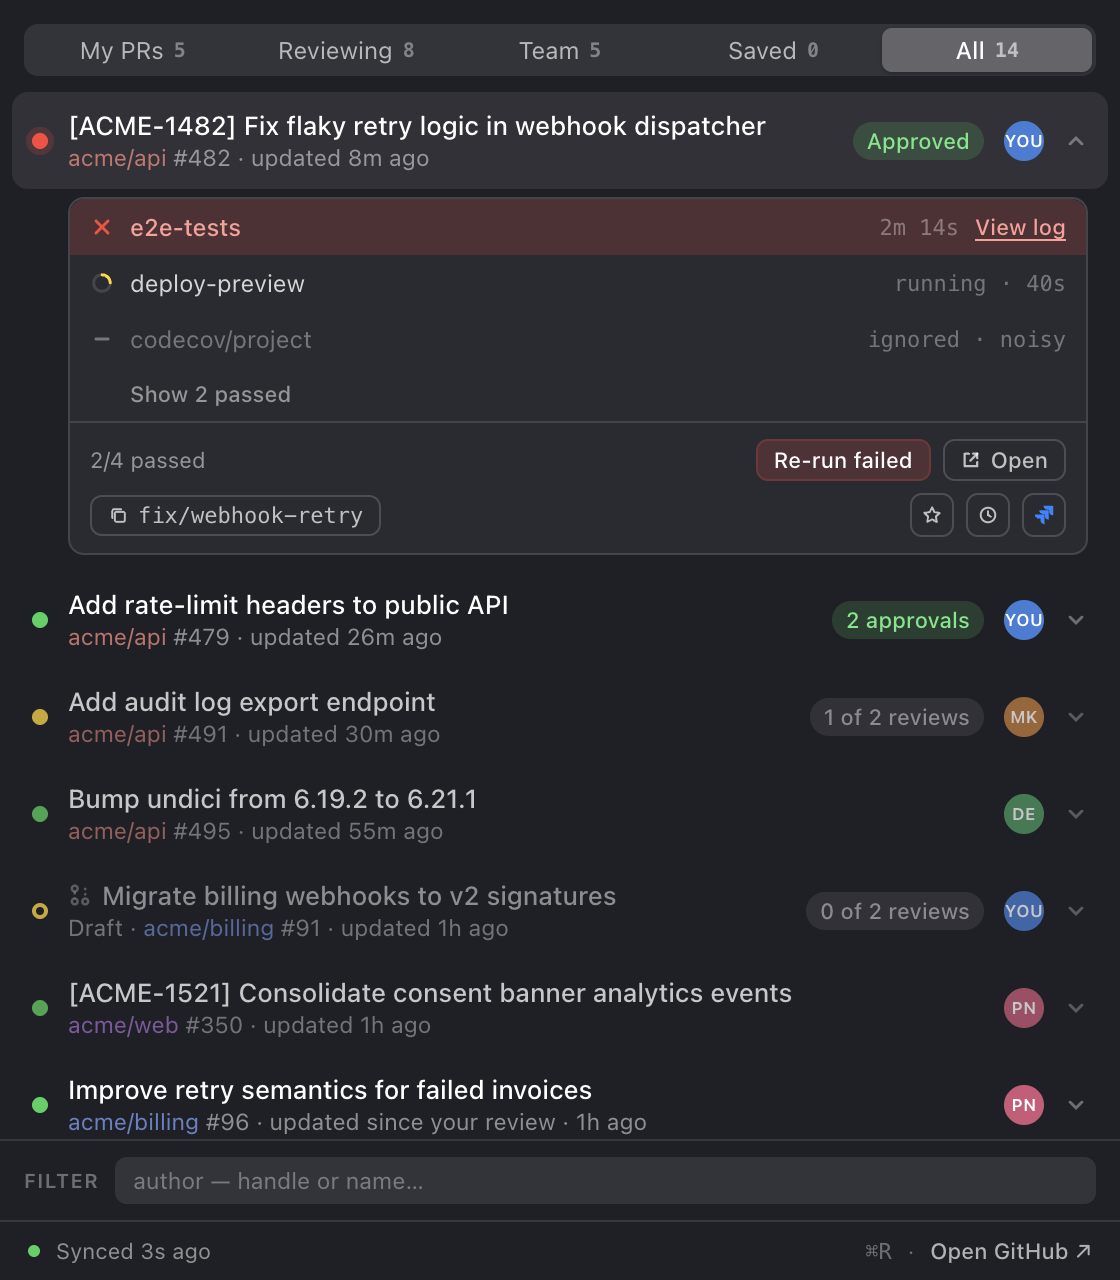
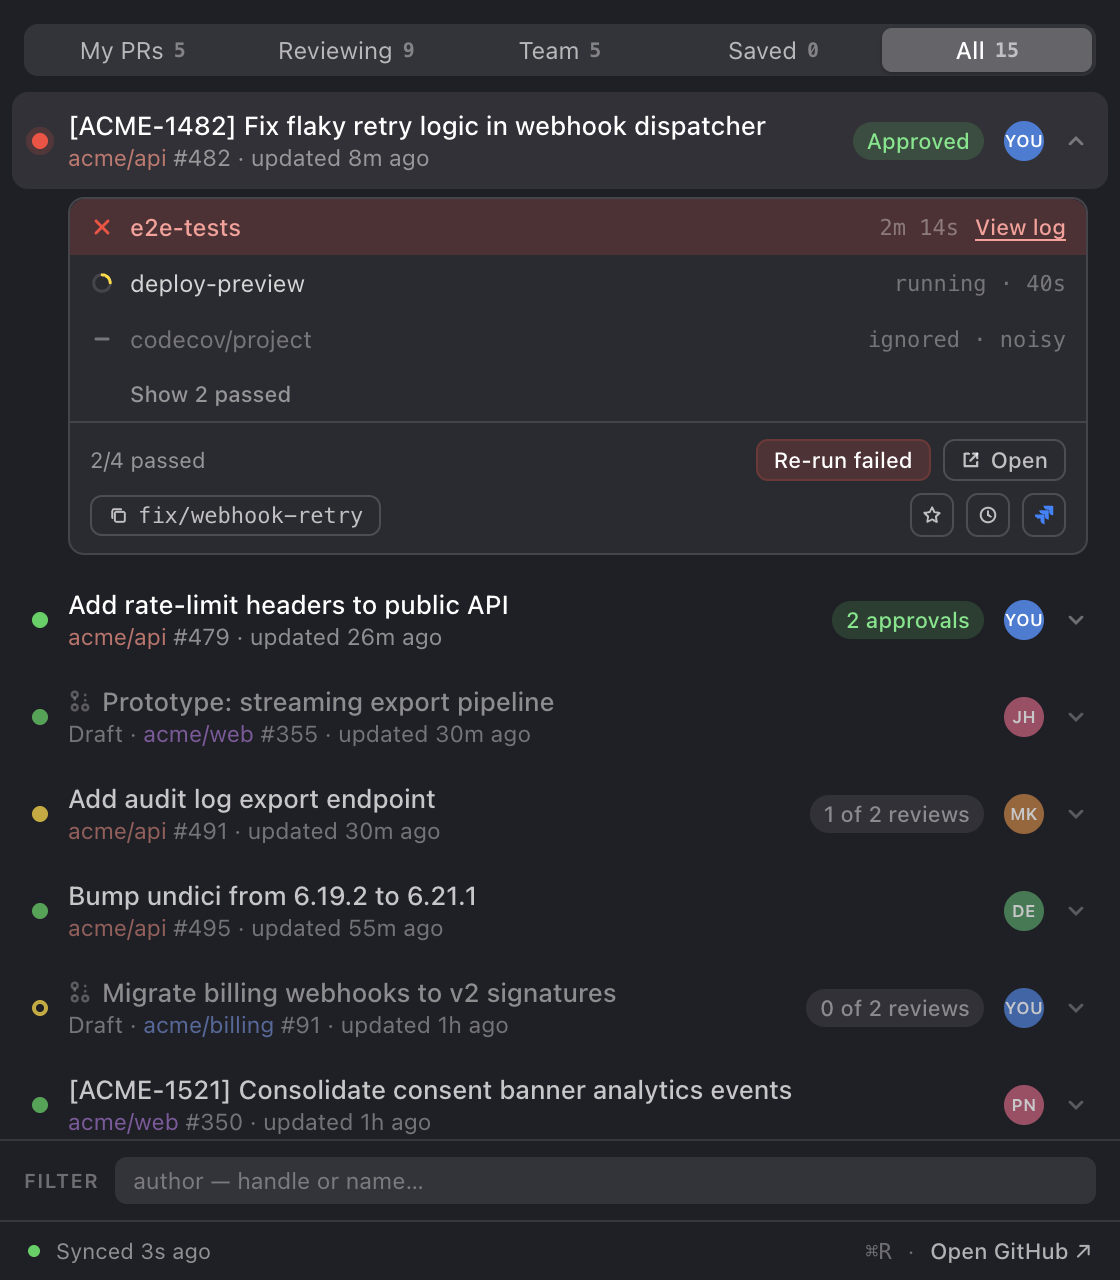
Draft toggle on Code owner requests + ready-for-review notification
The Code owner requests group hides draft PRs by default behind a small
show/hide toggle on the group divider (persisted, scoped to that group).
New notification fires once when a PR awaiting your review — directly or
via a code-owner group — leaves draft, deduped against the review-requested
notification when the ready flip creates a direct request; toggleable in
Settings.

diff --git a/src/renderer/src/components/PRList.tsx b/src/renderer/src/components/PRList.tsx
@@ -27,6 +27,8 @@ export function PRList({
   botAuthors,
   collapsedGroups,
   onToggleGroup,
+  codeownerDraftsHidden,
+  onToggleCodeownerDrafts,
   peopleNames,
   actions
 }: {
@@ -40,6 +42,9 @@ export function PRList({
   botAuthors: string[]
   collapsedGroups: ReadonlySet<GroupKey>
   onToggleGroup: (key: GroupKey) => void
+  /** Code owner requests only: drafts are clutter there until they're ready */
+  codeownerDraftsHidden: boolean
+  onToggleCodeownerDrafts: () => void
   peopleNames: ReadonlyMap<string, string>
   actions: RowActions
 }): JSX.Element {
@@ -65,6 +70,11 @@ export function PRList({
   const renderGroups = (groups: Group[]): JSX.Element[] =>
     groups.flatMap((g) => {
       const collapsed = collapsedGroups.has(g.key)
+      // code-owner group: drafts hide behind a toggle on the divider itself
+      const draftCount =
+        g.key === 'team' ? g.rows.filter((pr) => pr.isDraft).length : 0
+      const rows =
+        g.key === 'team' && codeownerDraftsHidden ? g.rows.filter((pr) => !pr.isDraft) : g.rows
       return [
         <button
           className={collapsed ? 'group-header collapsed' : 'group-header'}
@@ -75,10 +85,24 @@ export function PRList({
           <span className="glabel" style={{ color: g.color }}>
             {g.label}
           </span>
-          <span className="gcount">{g.rows.length}</span>
+          <span className="gcount">{rows.length}</span>
           <span className="grule" />
+          {draftCount > 0 && (
+            <span
+              className="gdraft-toggle"
+              role="button"
+              onClick={(e) => {
+                e.stopPropagation()
+                onToggleCodeownerDrafts()
+              }}
+            >
+              {codeownerDraftsHidden
+                ? `show ${draftCount} draft${draftCount === 1 ? '' : 's'}`
+                : 'hide drafts'}
+            </span>
+          )}
         </button>,
-        ...(collapsed ? [] : g.rows.map(render))
+        ...(collapsed ? [] : rows.map(render))
       ]
     })
 

diff --git a/src/renderer/src/App.tsx b/src/renderer/src/App.tsx
@@ -19,6 +19,8 @@ import { TeamPillBar } from './components/TeamPillBar'
 import type { RowActions } from './components/PRRow'
 
 const COLLAPSED_LS_KEY = 'rev-collapsed-groups'
+/** 'shown' | 'hidden' — drafts inside the Code owner requests group (default hidden) */
+const DRAFTS_LS_KEY = 'codeowner-drafts'
 
 function loadCollapsed(): ReadonlySet<GroupKey> {
   try {
@@ -48,6 +50,13 @@ export default function App(): JSX.Element {
   const [repoFocus, setRepoFocus] = useState<string | null>(null)
   const [toast, setToast] = useState<string | null>(null)
   const [collapsedGroups, setCollapsedGroups] = useState<ReadonlySet<GroupKey>>(loadCollapsed)
+  const [codeownerDraftsHidden, setCodeownerDraftsHidden] = useState<boolean>(() => {
+    try {
+      return localStorage.getItem(DRAFTS_LS_KEY) !== 'shown'
+    } catch {
+      return true
+    }
+  })
   const [now, setNow] = useState(() => Date.now())
   const toastTimer = useRef<ReturnType<typeof setTimeout>>(undefined)
 
@@ -61,6 +70,17 @@ export default function App(): JSX.Element {
       offShown()
       clearInterval(iv)
     }
+  }, [])
+
+  const toggleCodeownerDrafts = useCallback((): void => {
+    setCodeownerDraftsHidden((cur) => {
+      try {
+        localStorage.setItem(DRAFTS_LS_KEY, cur ? 'shown' : 'hidden')
+      } catch {
+        // non-fatal: preference just won't survive a relaunch
+      }
+      return !cur
+    })
   }, [])
 
   const toggleGroup = useCallback((key: GroupKey): void => {
@@ -245,6 +265,8 @@ export default function App(): JSX.Element {
         botAuthors={state.settings.botAuthors}
         collapsedGroups={collapsedGroups}
         onToggleGroup={toggleGroup}
+        codeownerDraftsHidden={codeownerDraftsHidden}
+        onToggleCodeownerDrafts={toggleCodeownerDrafts}
         peopleNames={peopleNames}
         actions={actions}
       />

diff --git a/src/shared/notifDiff.ts b/src/shared/notifDiff.ts
@@ -48,6 +48,7 @@ export function diffSnapshots(
       ciPhase: ciPhase(pr),
       mergeReadyNotified: pr.nextAction === 'MERGE' ? (before?.mergeReadyNotified ?? false) : false,
       reviewRequestSeen: pr.reviewRequestedFromViewer ? (before?.reviewRequestSeen ?? false) : false,
+      wasDraft: pr.isDraft,
       lastNotifiedCommentCount: before?.lastNotifiedCommentCount ?? pr.commentCount,
       lastCommentNotifAt: before?.lastCommentNotifAt ?? 0
     }
@@ -88,13 +89,36 @@ export function diffSnapshots(
     }
 
     // 3. Someone requests my review
+    let firedReviewRequested = false
     if (pr.reviewRequestedFromViewer && !after.reviewRequestSeen) {
       after.reviewRequestSeen = true
       if (settings.notifications.reviewRequested) {
+        firedReviewRequested = true
         fire({
           kind: 'reviewRequested',
           prKey: pr.key,
           title: `Review requested: ${shortRef}`,
+          body: `${pr.author} · ${pr.title}`,
+          url: pr.url
+        })
+      }
+    }
+
+    // 3b. A PR awaiting my review (directly or via code owners) leaves draft.
+    // Skipped when #3 fired this same poll — one notification per event.
+    // Old state (pre-wasDraft) reads as not-draft, so no transition fires.
+    if (
+      !mine &&
+      !pr.isDraft &&
+      (before?.wasDraft ?? false) &&
+      (pr.reviewRequestedFromViewer || pr.reviewRequestedFromTeam) &&
+      !firedReviewRequested
+    ) {
+      if (settings.notifications.readyForReview) {
+        fire({
+          kind: 'readyForReview',
+          prKey: pr.key,
+          title: `Ready for review: ${shortRef}`,
           body: `${pr.author} · ${pr.title}`,
           url: pr.url
         })

diff --git a/src/shared/__tests__/notifDiff.test.ts b/src/shared/__tests__/notifDiff.test.ts
@@ -49,6 +49,40 @@ describe('diffSnapshots', () => {
     expect(r3.events.map((e) => e.kind)).toEqual(['ciFail'])
   })
 
+  it('a PR awaiting my review leaving draft fires readyForReview, once', () => {
+    const draft = makeMockPRs(NOW).find((p) => p.key === 'acme/web#355')! // code-owner draft
+    const state0 = seed([draft])
+
+    const ready = { ...draft, isDraft: false }
+    const r1 = diffSnapshots(state0, [ready], opts())
+    expect(r1.events.map((e) => e.kind)).toEqual(['readyForReview'])
+
+    const r2 = diffSnapshots(r1.nextState, [ready], opts())
+    expect(r2.events).toEqual([])
+  })
+
+  it('draft→ready that also creates a direct request fires reviewRequested only', () => {
+    const draft = makeMockPRs(NOW).find((p) => p.key === 'acme/web#355')!
+    const state0 = seed([draft])
+
+    const ready = { ...draft, isDraft: false, reviewRequestedFromViewer: true }
+    const r1 = diffSnapshots(state0, [ready], opts())
+    expect(r1.events.map((e) => e.kind)).toEqual(['reviewRequested'])
+  })
+
+  it('readyForReview respects its settings toggle', () => {
+    const draft = makeMockPRs(NOW).find((p) => p.key === 'acme/web#355')!
+    const state0 = seed([draft])
+
+    const ready = { ...draft, isDraft: false }
+    const muted = {
+      ...MOCK_SETTINGS,
+      notifications: { ...MOCK_SETTINGS.notifications, readyForReview: false }
+    }
+    const r1 = diffSnapshots(state0, [ready], opts({ settings: muted }))
+    expect(r1.events).toEqual([])
+  })
+
   it('merge-ready fires on false→true and re-arms after dropping out', () => {
     const waiting = myPr({ nextAction: 'WAITING' })
     const state0 = seed([waiting])

diff --git a/src/shared/types.ts b/src/shared/types.ts
@@ -105,6 +105,8 @@ export interface NotificationToggles {
   ciFail: boolean
   approved: boolean
   reviewRequested: boolean
+  /** a PR awaiting my review (directly or via code owners) leaves draft */
+  readyForReview: boolean
   comments: boolean
 }
 
@@ -137,7 +139,13 @@ export const DEFAULT_SETTINGS: Settings = {
   repos: [],
   teamUsernames: [],
   noisyPatterns: [{ pattern: 'codecov/*' }],
-  notifications: { ciFail: true, approved: true, reviewRequested: true, comments: true },
+  notifications: {
+    ciFail: true,
+    approved: true,
+    reviewRequested: true,
+    readyForReview: true,
+    comments: true
+  },
   badgeEnabled: true,
   launchAtLogin: false,
   theme: 'system',
@@ -152,6 +160,8 @@ export interface PrNotifState {
   ciPhase: 'none' | 'green' | 'running' | 'failed'
   mergeReadyNotified: boolean
   reviewRequestSeen: boolean
+  /** draft status at last poll — absent in state persisted before v0.6 */
+  wasDraft?: boolean
   lastNotifiedCommentCount: number
   /** epoch ms of last comment notification (0 = never) */
   lastCommentNotifAt: number
@@ -159,7 +169,12 @@ export interface PrNotifState {
 
 export type NotifState = Record<PrKey, PrNotifState>
 
-export type NotifKind = 'ciFail' | 'mergeReady' | 'reviewRequested' | 'comments'
+export type NotifKind =
+  | 'ciFail'
+  | 'mergeReady'
+  | 'reviewRequested'
+  | 'readyForReview'
+  | 'comments'
 
 export interface NotifEvent {
   kind: NotifKind

diff --git a/src/shared/mockData.ts b/src/shared/mockData.ts
@@ -129,6 +129,13 @@ const SPECS: MockSpec[] = [
     checks: [['build', 'ok', '1m 04s'], ['lint', 'ok', '18s'], ['e2e-tests', 'ok', '2m 10s']]
   },
   {
+    repo: 'acme/web', number: 355, title: 'Prototype: streaming export pipeline',
+    branch: 'jh/streaming-export', author: 'jharrow', buckets: ['rev'], updatedMin: 30,
+    isDraft: true, reviewRequestedFromTeam: true, commentCount: 1, reviewCount: 0,
+    lastCommitMin: 35,
+    checks: [['build', 'ok', '1m 12s'], ['lint', 'ok', '19s']]
+  },
+  {
     repo: 'acme/auth', number: 210, title: 'Rotate signing keys on a schedule',
     branch: 'jh/key-rotation', author: 'jharrow', buckets: ['rev'], updatedMin: 700,
     reviewDecision: 'APPROVED', approvals: 1, viewerReviewState: 'APPROVED',

diff --git a/src/renderer/src/styles/app.css b/src/renderer/src/styles/app.css
@@ -136,6 +136,20 @@ body {
   transform: rotate(-90deg);
 }
 
+/* sits at the end of the divider line — costs no vertical space */
+.gdraft-toggle {
+  flex: none;
+  font: 500 10px system-ui, sans-serif;
+  color: var(--txt3);
+  cursor: pointer;
+}
+
+.gdraft-toggle:hover {
+  color: var(--txt);
+  text-decoration: underline;
+  text-underline-offset: 2px;
+}
+
 .group-header .glabel {
   font: 700 11px system-ui, sans-serif;
   letter-spacing: 0.08em;

diff --git a/src/renderer/src/settings/SettingsApp.tsx b/src/renderer/src/settings/SettingsApp.tsx
@@ -87,6 +87,7 @@ export default function SettingsApp(): JSX.Element {
             ['ciFail', 'CI fails on my PR'],
             ['approved', 'My PR becomes approved / mergeable'],
             ['reviewRequested', 'Someone requests my review'],
+            ['readyForReview', 'A PR awaiting my review leaves draft'],
             ['comments', 'New comments on my PRs (batched, 15 min)']
           ] as const
         ).map(([key, label]) => (
